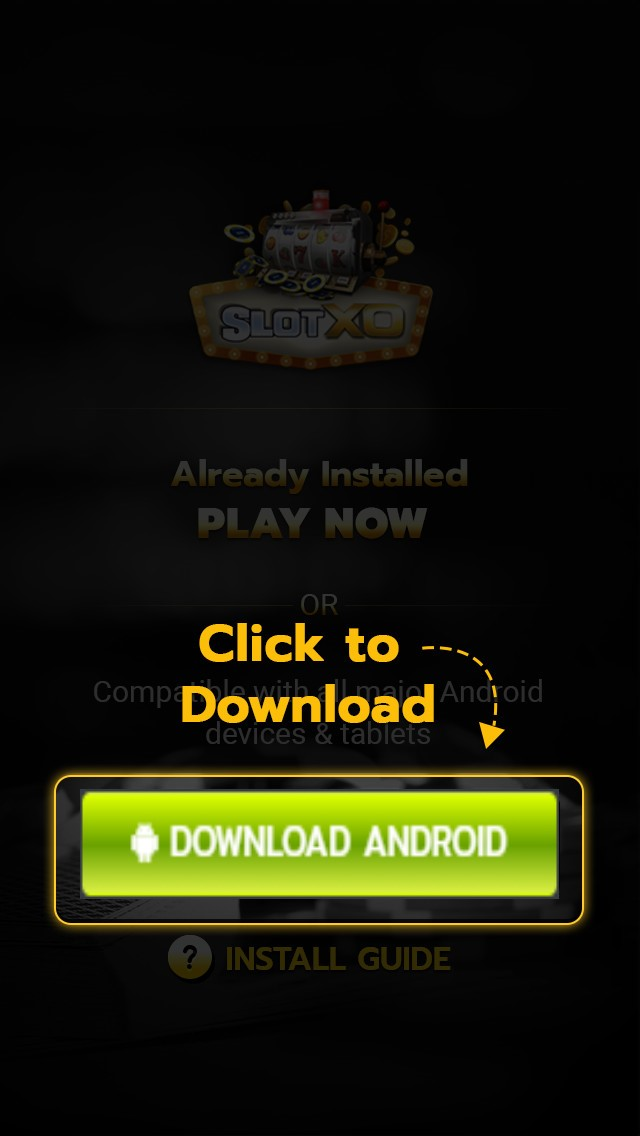
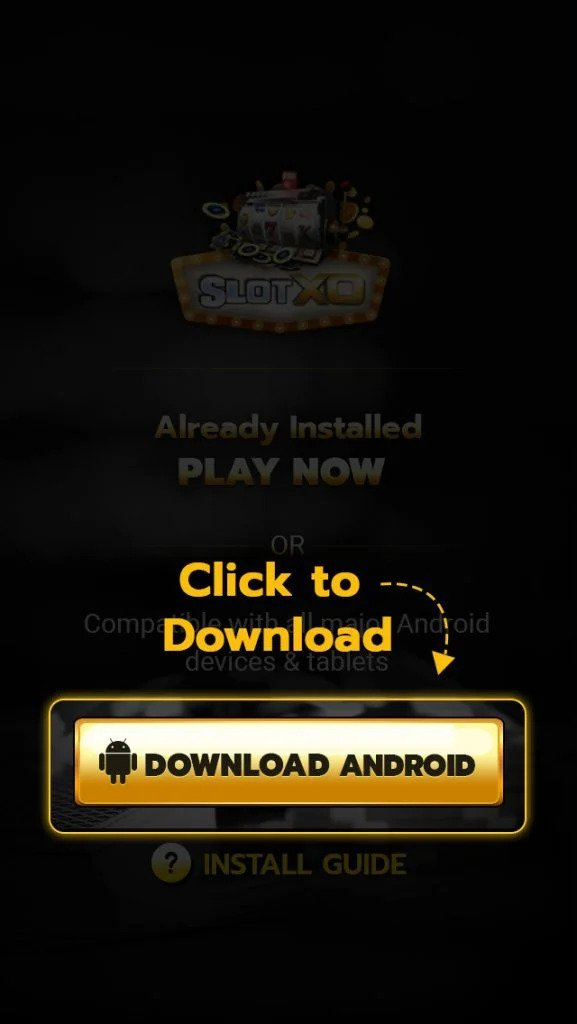
finish download

diff --git a/src/download.js b/src/download.js
@@ -4,31 +4,31 @@ import React from 'react'
 function download() {
     return (
         <div className="container text-center">
-            <h1>ดาวน์โหลด Slotxo</h1>
-            <span>
+            <h1 style={{ color: "#ffcc00" }}>ดาวน์โหลด Slotxo</h1>
+            <p>
                 ดาวน์โหลด Slotxo สามารถดาวน์โหลดและติดตั้งแอพพลิเคชั่นสำหรับเข้าเล่น Slotxo
                 ในมือถือได้ทั้งระบบแอนดรอยด์และระบบ iOS (iPhone) รองรับทุกระบบ
                 โดยท่านสามารถทำตามรายการดังต่อไปนี้จากเราได้เลยคะ
-            </span>
-            <br />
-            <img src="img/download/slotxo.png" className="img-fluid m-4"></img>
-            <br />
-            <span>
+            </p>
+
+            <img src="img/download/slotxo.png" className="img-fluid mb-3"></img>
+
+            <p>
                 สำหรับวิธีการดาวน์โหลดนั้น เราจะแยกออกเป็นสองรายการแอพพลิเคชั่นนะคะ นั่นคือ
                 ระบบแอนดรอยด์สำหรับท่านที่ใช้โทรศัพท์มือถือ เช่น ซัมซุง ออปโป้ เป็นต้นคะ
                 ส่วนอีกค่ายหนึ่งก็คือฝั่งของ แอปเปิ้ล หรือว่า iPhone โดยให้ยิง QR Code
                 ชุดด้านล่างนี้ด้วยโทรศัพท์มือถือของท่าน ได้เลยนะคะ
-            </span>
+            </p>
 
             <div className="row col-12">
                 <div className="col-sm-auto col-lg-6 mt-4">
                     <div className="card bg-dark p-1 pt-3">
-                        <img src="img/download/WebQRCodeAD.jpg" className="img-fluid align-self-center col-lg-6 col-md-5 col-sm-6"></img>
+                        <img src="img/download/qr_and.jpg" className="img-fluid align-self-center col-lg-6 col-md-5 col-sm-6"></img>
                         <div className="card-body">
-                            <a className="btn btn-gogame col-lg-6 col-md-5 col-sm-6">
+                            <a className="btn-gogame col-lg-6 col-md-5 col-sm-6">
                                 <i className="fa fa-android" aria-hidden="true"></i> DOWNLOAD ANDROID
                             </a>
-                            <p className="card-text">
+                            <p className="card-text m-3">
                                 ระบบเกมส์ถูกพัฒนาโดยทีมงานชาวต่างประเทศที่มีความน่าเชื่อถือและมีความเชี่ยวชาญ
                                 ในระบบของแอนดรอยด์โดยเฉพาะ ท่านจึงมั่นใจได้ในเรื่องของความปลอดภัยของระบบ
                             </p>
@@ -65,40 +65,46 @@ function download() {
                 </div>
                 <div className="col-sm-auto col-lg-6 mt-4">
                     <div className="card bg-dark p-1 pt-3">
-                        <img src="img/download/WebQRCodeAD.jpg" className="img-fluid align-self-center col-lg-6 col-md-5 col-sm-6"></img>
+                        <img src="img/download/qr_ios.jpg" className="img-fluid align-self-center col-lg-6 col-md-5 col-sm-6"></img>
                         <div className="card-body">
-                            <a className="btn btn-gogame col-lg-6 col-md-5 col-sm-6">
-                                <i className="fa fa-android" aria-hidden="true"></i> DOWNLOAD ANDROID
+                            <a className="btn-gogame col-lg-6 col-md-5 col-sm-6">
+                                <i className="fa fa-apple" aria-hidden="true"></i> DOWNLOAD IOS
                             </a>
-                            <p className="card-text">
+                            <p className="card-text  m-3">
                                 ระบบเกมส์ถูกพัฒนาโดยทีมงานชาวต่างประเทศที่มีความน่าเชื่อถือและมีความเชี่ยวชาญ
                                 ในระบบของแอนดรอยด์โดยเฉพาะ ท่านจึงมั่นใจได้ในเรื่องของความปลอดภัยของระบบ
                             </p>
                             <a
                                 className="btn btn-bg1"
                                 data-toggle="collapse"
-                                href="#collapseExample1"
+                                href="#collapseExample2"
                                 role="button"
                                 aria-expanded="false"
-                                aria-controls="collapseExample1"
+                                aria-controls="collapseExample2"
                             >วิธีติดตั้ง ระบบ Android</a>
 
-                            <div className="collapse mt-4" id="collapseExample1">
+                            <div className="collapse mt-4" id="collapseExample2">
                                 <div className="item active">
-                                    <p className="mb-0">ขั้นตอนที่ 1</p>
-                                    <img className="img-fluid mb-4" src="img/download/android1.jpg"></img>
-                                    <p className="mb-0">ขั้นตอนที่ 2</p>
-                                    <img className="img-fluid mb-4" src="img/download/android2.jpg"></img>
-                                    <p className="mb-0">ขั้นตอนที่ 3</p>
-                                    <img className="img-fluid mb-4" src="img/download/android3.jpg"></img>
-                                    <p className="mb-0">ขั้นตอนที่ 4</p>
-                                    <img className="img-fluid mb-4" src="img/download/android4.jpg"></img>
-                                    <p className="mb-0">ขั้นตอนที่ 5</p>
-                                    <img className="img-fluid mb-4" src="img/download/android5.jpg"></img>
-                                    <p className="mb-0">ขั้นตอนที่ 6</p>
-                                    <img className="img-fluid mb-4" src="img/download/android6.jpg"></img>
-                                    <p className="mb-0">ขั้นตอนที่ 7</p>
-                                    <img className="img-fluid mb-4" src="img/download/android7.jpg"></img>
+                                    <p className="mb-0">ขั้นตอนที่ 1 สแกน QR Code ด้านบนด้วยโทรศัพท์มือถือ iPhone ของท่าน</p>
+                                    <p className="mb-0">คลิ๊กที่ปุ่มสีทองปุ่มใหญ่ เพื่อทำการดาวน์โหลดแอพพลิเคชั่นเพื่อติดตั้ง</p>
+                                    <img className="img-fluid mb-4" src="img/download/ios1.jpg" loading="lazy"></img>
+                                    <p className="mb-0">ขั้นตอนที่ 2 ทำการโหลดและติดตั้งแอพพลิเคชั่น Slotxo บน iPhone</p>
+                                    <img className="img-fluid mb-4" src="img/download/ios2.jpg" loading="lazy"></img>
+                                    <p className="mb-0">ขั้นตอนที่ 3 เลือกเมนู ตั้งค่าบน iPhone ของท่าน</p>
+                                    <img className="img-fluid mb-4" src="img/download/ios3.jpg" loading="lazy"></img>
+                                    <p className="mb-0">ขั้นตอนที่ 4 เลือกเมนู ทั่วไป</p>
+                                    <img className="img-fluid mb-4" src="img/download/ios4.jpg" loading="lazy"></img>
+                                    <p className="mb-0">ขั้นตอนที่ 5 เลือกการจัดการ ดีไวซ์ หรือ การจัดการกับแอพฯ</p>
+                                    <img className="img-fluid mb-4" src="img/download/ios5.jpg" loading="lazy"></img>
+                                    <p className="mb-0">ขั้นตอนที่ 6 เลือกที่ผู้ผลิตแอพพลิเคชั่น Slotxo</p>
+                                    <img className="img-fluid mb-4" src="img/download/ios6.jpg" loading="lazy"></img>
+                                    <p className="mb-0">ขั้นตอนที่ 7 กดเชื่อถือแอพพลิเคชั่นจากบนโทรศัพท์ iPhone ของท่าน</p>
+                                    <img className="img-fluid mb-4" src="img/download/ios7.jpg" loading="lazy"></img>
+                                    <p className="mb-0">ขั้นตอนที่ 8 ยืนยันอีกครั้ง</p>
+                                    <img className="img-fluid mb-4" src="img/download/ios8.jpg" loading="lazy"></img>
+                                    <p className="mb-0">ขั้นตอนที่ 9 ผู้ผลิตแอพพลิเคชั่น Slotxo ได้รับการยอมรับแล้ว</p>
+                                    <img className="img-fluid mb-4" src="img/download/ios9.jpg" loading="lazy"></img>
+                                    <p>การติดตั้งแอพพพลิเคชั่น สล็อต เอ็กซ์ โอ ในโทรศัพท์ iPhone อาจมีขั้นตอนที่ ค่อนข้างมากกว่า แอนดรอยด์ แต่ก็เป็นวิธีการติดตั้งที่ค่อนข้างกระชับและรวบรัดที่สุดที่เรานำมาเสนอให้กับทุกท่าน หากท่านมีข้อสงสัยในการติดตั้ง หรือ ติดขัดในส่วนใด ท่านสามารถสอบถามเราได้ตลอด 24 ชั่วโมง ให้เจ้าหน้าที่ผู้เชี่ยวชาญของเรา ช่วยท่าน ในการแก้ไขปัญหา โดยเรามีเจ้าหน้าที่ที่เป็นผู้เชี่ยวชาญตัวจริง ในการให้คำแนะนำและปรึกษา ไม่ว่าจะเป็นส่วนของการบริการท่าน สอบถามข้อมูล วิธีการติดตั้ง ไปจนกระทั่งพาติดตั้งแอพพลิเคชั่นจนแล้วเสร็จ ทั้งหมดนี้ เราเน้นที่สุดคืองานบริการที่ดีที่สุดจากเรา</p>
                                 </div>
                             </div>
 
@@ -107,39 +113,8 @@ function download() {
                 </div>
             </div>
 
-            {/* <div className="row mt-5 mb-5">
-                
-                    <img src="img/download/WebQRCodeAD.jpg" className="img-fluid"></img>
-                    <h5>ระบบ : ANDROID</h5>
-                    <a-nav className="nav-link" href="#">Download For Android Here</a-nav>
-                    <span>
-                        ระบบเกมส์ถูกพัฒนาโดยทีมงานชาวต่างประเทศที่มีความน่าเชื่อถือและมีความเชี่ยวชาญ
-                        ในระบบของแอนดรอยด์โดยเฉพาะ ท่านจึงมั่นใจได้ในเรื่องของความปลอดภัยของระบบ
-                    </span>
-                    <span>
-                        ทั้งในการเล่นผ่านเว็บบราวเซอร์ต่างๆ หรือจะเป็นการเล่นผ่านแอพพลิเคชั่น
-                        ท่านสามารถสอบถามข้อมูลที่ท่านต้องการได้จากเราตลอด 24 ชั่วโมง นอกจากนี้
-                        ท่านยังสามารถทำรายการต่างๆได้จากช่องทางเดียวกันนี้ได้ทุกรายการ
-                        ไม่ว่าจะเป็นรายการฝากเติม แจ้งถอน สะดวก สบายใจ ความมั่นคงสูง
-                    </span>
-                
-                    <img src="img/download/WebQRCodeAD.jpg" className="img-fluid"></img>
-                    <h5>ระบบ : iOS</h5>
-                    <a-nav className="nav-link" href="#">Download For iOS Here</a-nav>
-                    <span>
-                        ระบบเกมส์ถูกพัฒนาโดยทีมงานชาวต่างประเทศที่มีความน่าเชื่อถือและมีความเชี่ยวชาญ
-                        ในระบบของแอนดรอยด์โดยเฉพาะ ท่านจึงมั่นใจได้ในเรื่องของความปลอดภัยของระบบ
-                    </span>
-                    <span>
-                        ทั้งในการเล่นผ่านเว็บบราวเซอร์ต่างๆ หรือจะเป็นการเล่นผ่านแอพพลิเคชั่น
-                        ท่านสามารถสอบถามข้อมูลที่ท่านต้องการได้จากเราตลอด 24 ชั่วโมง นอกจากนี้
-                        ท่านยังสามารถทำรายการต่างๆได้จากช่องทางเดียวกันนี้ได้ทุกรายการ
-                        ไม่ว่าจะเป็นรายการฝากเติม แจ้งถอน สะดวก สบายใจ ความมั่นคงสูง
-                    </span>
-                
-            </div> */}
-
-            <div className="border-danger p-3">
+            
+            {/* <div className="border-danger p-3">
                 <ul className="text-left">
                     <li><i className="fa fa-check-circle-o" aria-hidden="true"></i>  สมัครง่ายๆ แค่คลิก ระบบเราทำงานอัติโนมัติภายใน 1 นาทีเท่านั้น</li>
                     <li><i className="fa fa-check-circle-o" aria-hidden="true"></i>  ฝาก-ถอน ระบบอัติโนมัติ AUTO 1 นาที ด้วยตัวคุณเอง</li>
@@ -152,7 +127,7 @@ function download() {
                     <li><i className="fa fa-check-circle-o" aria-hidden="true"></i>  การเงินมั่นคง จ่ายเร็ว จ่ายไว จ่ายไม่อั้น</li>
                     <li><i className="fa fa-check-circle-o" aria-hidden="true"></i>  เล่นเกมส์ SLOT พร้อมโปรโมชั่นดีอีกมากมาย</li>
                 </ul>
-            </div>
+            </div> */}
         </div>
     )
 }

diff --git a/src/App.js b/src/App.js
@@ -183,7 +183,8 @@ function App() {
       {/* Footer all page desktop */}
       <footer
         id="footerdesktop"
-        className="dk-footer d-none d-sm-none d-md-none d-lg-block mt-5"
+        className="dk-footer d-none d-sm-none d-md-none d-lg-block"
+        style={{ marginTop: "5rem" }}
       >
         <div className="container">
           <div className="row">
